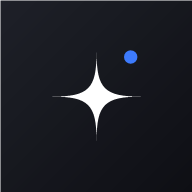
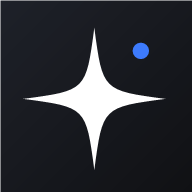
Botao de instalar no topo e estrela maior no icone

Changed region(s): [[0.125, 0.1562, 0.875, 0.875], [0.625, 0.2188, 0.7812, 0.3438]]

diff --git a/baixar.html b/baixar.html
@@ -39,6 +39,7 @@ li::before{content:counter(s);flex:0 0 28px;height:28px;border-radius:50%;backgr
 .warn{background:rgba(242,107,29,.12);border:1px solid rgba(242,107,29,.35);color:#ffc6a3;border-radius:12px;padding:12px 14px;font-size:14px;line-height:1.45;margin-bottom:16px}
 .warn[hidden]{display:none}
 .ok{text-align:center;padding:10px 0}
+.topo{margin:0 0 22px}.topo[hidden]{display:none}.topo .btn{margin-top:0}.topo .note{margin-top:8px;text-align:center}
 .foot{color:var(--mut);font-size:12px;text-align:center;margin-top:28px}
 </style>
 </head>
@@ -47,6 +48,8 @@ li::before{content:counter(s);flex:0 0 28px;height:28px;border-radius:50%;backgr
   <div class="logo"><img src="icon-192.png" alt=""><div><b>Meu QG</b><span>Finanças, demandas, agenda, rotina, saúde, estudos e conteúdo</span></div></div>
   <h1>Instale o seu QG</h1>
   <p class="sub">Funciona como um app de verdade: ícone na tela, abre em tela cheia e funciona sem internet. Leva 30 segundos.</p>
+
+  <div class="topo" id="topo" hidden><button class="btn" type="button" id="instalar">Instalar o Meu QG</button><p class="note" id="topoNota">Toque para instalar. Se nada abrir, siga os passos abaixo.</p></div>
 
   <div class="tabs" role="tablist">
     <button role="tab" data-t="ios" aria-selected="false">iPhone</button>
@@ -65,7 +68,6 @@ li::before{content:counter(s);flex:0 0 28px;height:28px;border-radius:50%;backgr
   </section>
 
   <section class="card" data-p="android" hidden>
-    <div id="andBtn" hidden><button class="btn" type="button" data-instalar>Instalar o Meu QG</button><p class="note">Se o botão não abrir nada, siga os passos abaixo.</p></div>
     <ol>
       <li><span>Abra este link no <b>Chrome</b>.</span></li>
       <li><span>Toque no menu <span class="ic"><svg viewBox="0 0 24 24" fill="#8fb2ff"><circle cx="12" cy="5" r="2"/><circle cx="12" cy="12" r="2"/><circle cx="12" cy="19" r="2"/></svg></span> no canto de cima.</span></li>
@@ -74,7 +76,6 @@ li::before{content:counter(s);flex:0 0 28px;height:28px;border-radius:50%;backgr
   </section>
 
   <section class="card" data-p="pc" hidden>
-    <div id="pcBtn" hidden><button class="btn" type="button" data-instalar>Instalar no computador</button></div>
     <ol>
       <li><span>Abra este link no <b>Chrome</b> ou no <b>Edge</b>.</span></li>
       <li><span>Clique no ícone de instalar na barra de endereço <span class="ic"><svg viewBox="0 0 24 24" fill="none" stroke="#8fb2ff" stroke-width="2.2" stroke-linecap="round"><rect x="3" y="4" width="18" height="13" rx="2"/><path d="M12 8v6M9 11l3 3 3-3M8 21h8"/></svg></span> (ou menu &gt; <b>Instalar Meu QG</b>).</span></li>
@@ -98,9 +99,14 @@ show(instalado?'ja':ios?'ios':android?'android':'pc');
 if(ios&&/CriOS|FxiOS|EdgiOS|Instagram|FBAN|FBAV/.test(ua))document.getElementById('naoSafari').hidden=false;
 document.getElementById('copiar').onclick=async e=>{try{await navigator.clipboard.writeText(location.href);e.target.textContent='Link copiado'}catch(_){prompt('Copie o link:',location.href)}};
 let deferido=null;
-addEventListener('beforeinstallprompt',e=>{e.preventDefault();deferido=e;document.getElementById('andBtn').hidden=false;document.getElementById('pcBtn').hidden=false});
-document.querySelectorAll('[data-instalar]').forEach(b=>b.onclick=async()=>{if(!deferido)return;deferido.prompt();const r=await deferido.userChoice;deferido=null;if(r.outcome==='accepted')show('ja')});
-addEventListener('appinstalled',()=>show('ja'));
+const topo=document.getElementById('topo');
+// o botão já nasce no topo (Android e computador), então nada abaixo se mexe quando o navegador libera a instalação
+if(!ios&&!instalado){topo.hidden=false;document.getElementById('instalar').textContent=android?'Instalar o Meu QG':'Instalar no computador'}
+addEventListener('beforeinstallprompt',e=>{e.preventDefault();deferido=e});
+document.getElementById('instalar').onclick=async()=>{
+  if(!deferido){document.getElementById('topoNota').textContent='Seu navegador não abriu a instalação automática. Siga os passos abaixo.';document.querySelector('.tabs').scrollIntoView({behavior:'smooth'});return}
+  deferido.prompt();const r=await deferido.userChoice;deferido=null;if(r.outcome==='accepted'){topo.hidden=true;show('ja')}};
+addEventListener('appinstalled',()=>{topo.hidden=true;show('ja')});
 if('serviceWorker' in navigator&&/^https?:$/.test(location.protocol))navigator.serviceWorker.register('sw.js').catch(()=>{});
 </script>
 </body>

diff --git a/sw.js b/sw.js
@@ -1,5 +1,5 @@
 // Meu QG: funciona sem internet depois da primeira abertura.
-const V='meu-qg-v2';
+const V='meu-qg-v3';
 const BASE=['./','./index.html','./manifest.webmanifest','./icon-192.png','./icon-512.png'];
 self.addEventListener('install',e=>{e.waitUntil(caches.open(V).then(c=>c.addAll(BASE)).then(()=>self.skipWaiting()))});
 self.addEventListener('activate',e=>{e.waitUntil(caches.keys().then(ks=>Promise.all(ks.filter(k=>k!==V).map(k=>caches.delete(k)))).then(()=>self.clients.claim()))});
